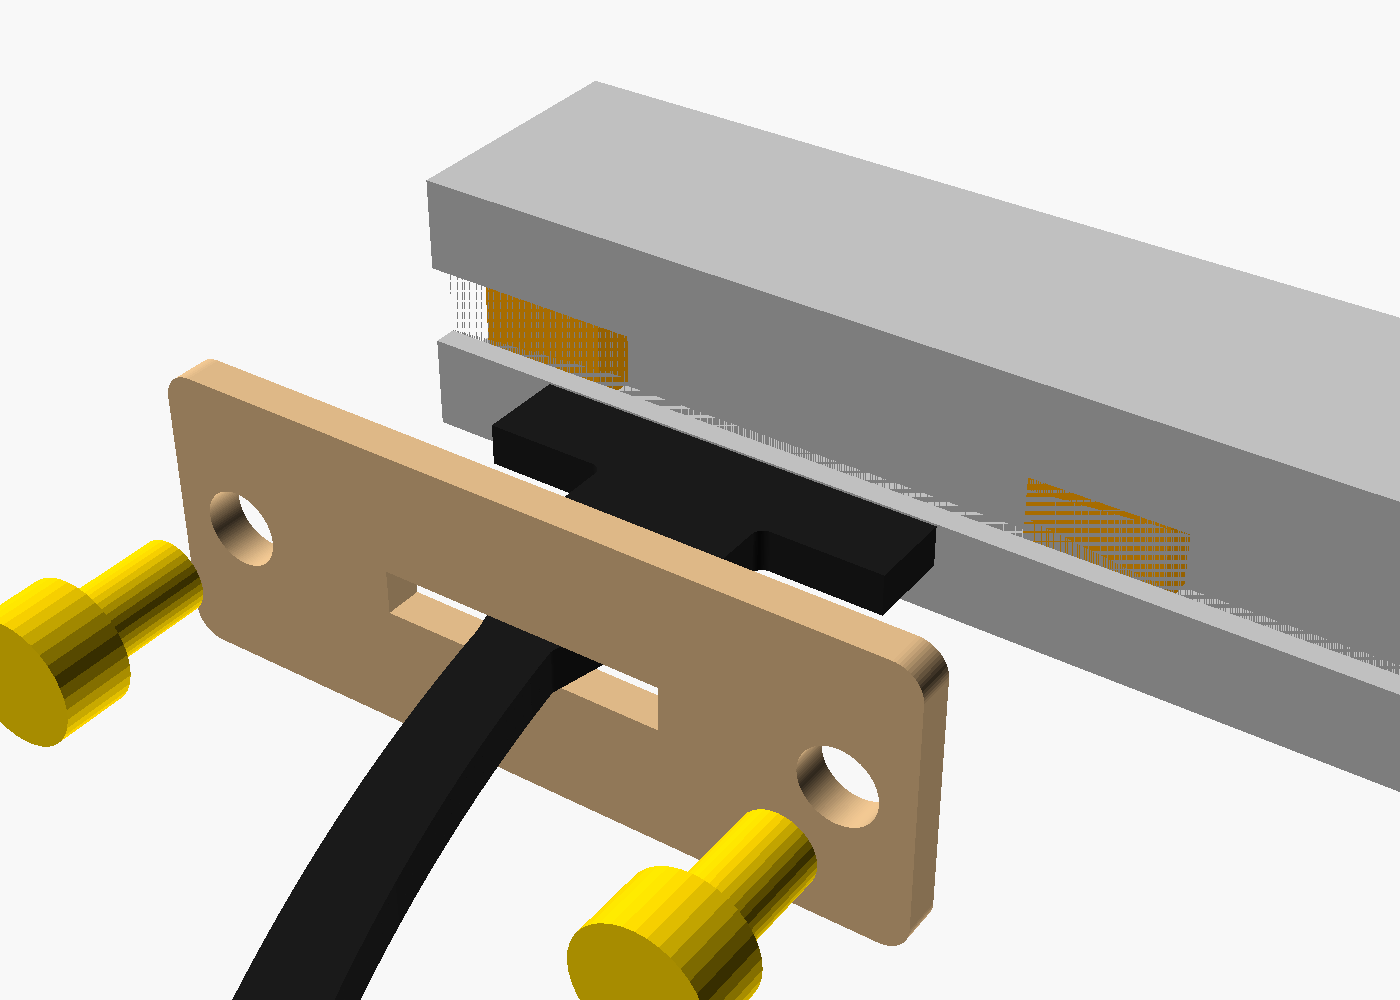
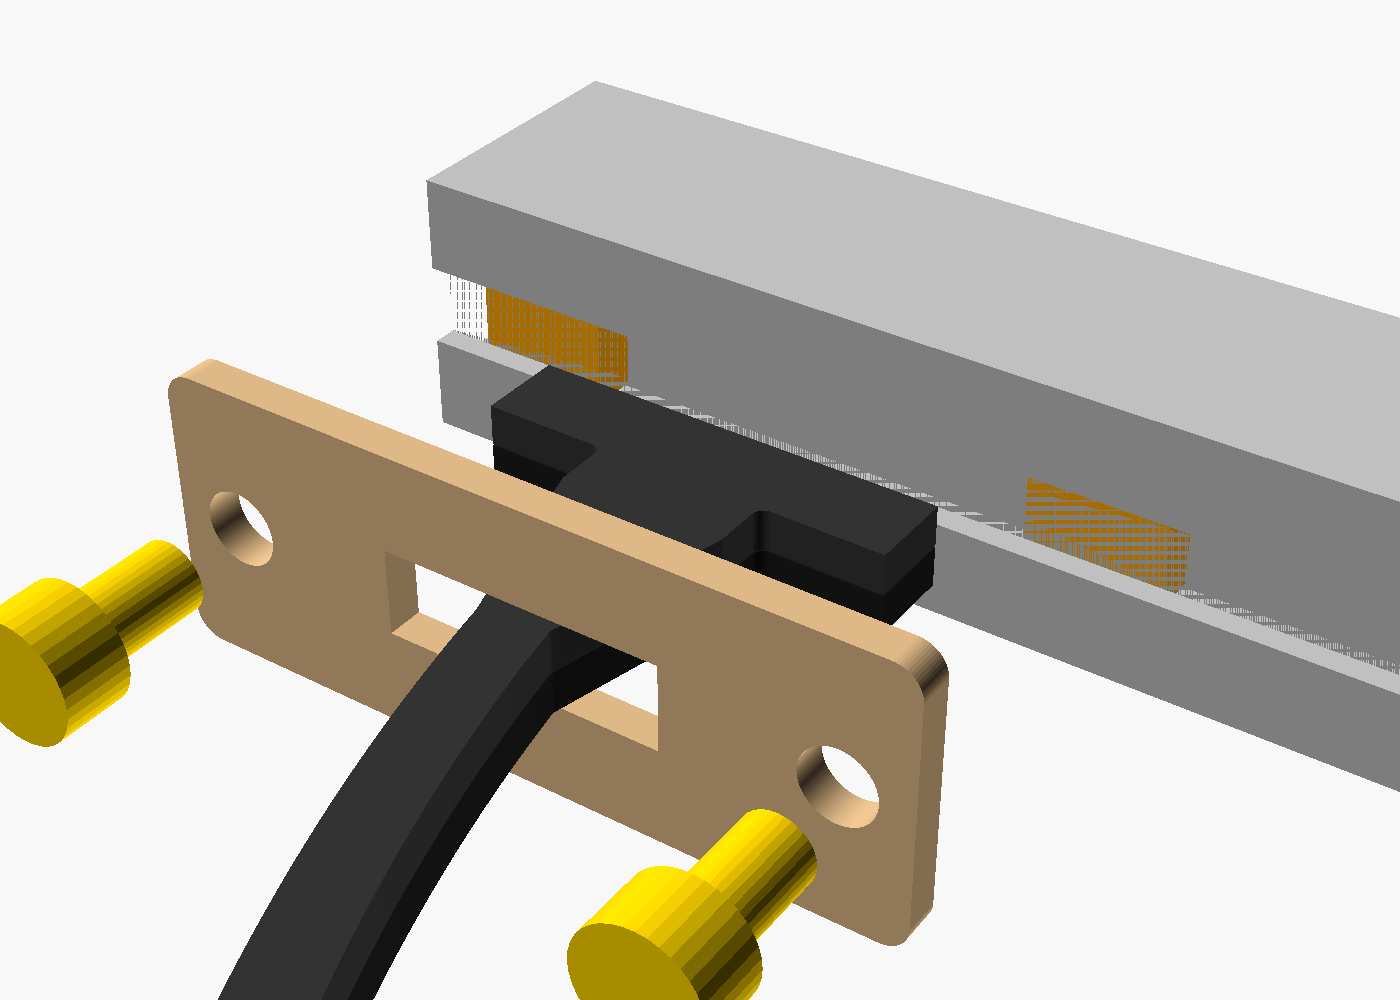
Acrylic feed x pass calibration (small ring test); escapement T pallet doubled to 6 mm (2 layers + M3 pin), clamp slot 6.2
Claude-Session: https://claude.ai/code/session_01LQy87QnU21cWEAk5CN6jGY

diff --git a/marbles/acrylic_cal.py b/marbles/acrylic_cal.py
@@ -1,0 +1,56 @@
+#!/usr/bin/env python3
+"""Black acrylic feed x pass calibration: cnc_vibes' elliptical ring test (spiral_cal.generate), sized small and slow
+for 3 mm black acrylic on the 10 W diode, shifted so the plate's bottom-left is X0 Y0 (positive coords only), finished
+by quickcut (frame pass, park, validation).
+
+5 rings, inner slow -> outer fast (feed = perimeter / loop time), each split into 4 sectors cut 1..4 times. Read which
+(feed x passes) sectors dropped out cleanly; labels are etched. Range chosen from published starting points for 10 W
+diodes on 3 mm black acrylic: 100 % power, roughly 150-250 mm/min, 2-4 passes.
+
+    python3 marbles/acrylic_cal.py          # -> marbles/gcode/acrylic_cal_<W>x<H>_acrylic3.gcode
+"""
+import re
+import sys
+from pathlib import Path
+
+HERE = Path(__file__).resolve().parent
+VIBES = Path("/home/user/cnc_vibes") if Path("/home/user/cnc_vibes").exists() else HERE.parents[1] / "cnc_vibes"
+sys.path.insert(0, str(VIBES / "cnc_calibrate"))
+sys.path.insert(0, str(VIBES / "quickcut"))
+import spiral_cal  # noqa: E402
+import gcode as qc  # noqa: E402
+
+RINGS, MIN_R, MAX_R, LOOP_S, PASSES, ASPECT = 5, 4.0, 16.0, 26.0, [1, 2, 3, 4], 1.35
+MARGIN = 2.0
+
+
+def main():
+    lines, b, feeds, T, meta = spiral_cal.generate(RINGS, MIN_R, MAX_R, LOOP_S, 100.0, passes=PASSES, aspect=ASPECT,
+                                                   engrave_power=spiral_cal.ENGRAVE_POWER_PCT,
+                                                   engrave_feed=spiral_cal.ENGRAVE_FEED)
+    xs, ys = [], []
+    for l in lines:
+        if re.match(r"G[0123]\b", l):
+            for ax, store in (("X", xs), ("Y", ys)):
+                m = re.search(ax + r"(-?[\d.]+)", l)
+                if m:
+                    store.append(float(m.group(1)))
+    dx, dy = MARGIN - min(xs), MARGIN - min(ys)
+
+    def shift(l):
+        if not re.match(r"G[0123]\b", l):
+            return l
+        l = re.sub(r"X(-?[\d.]+)", lambda m: f"X{float(m.group(1)) + dx:.3f}", l)
+        return re.sub(r"Y(-?[\d.]+)", lambda m: f"Y{float(m.group(1)) + dy:.3f}", l)
+    out = [shift(l).replace("origin CENTER", "origin = plate bottom-left") for l in lines]
+    w, h = max(xs) - min(xs) + 2 * MARGIN, max(ys) - min(ys) + 2 * MARGIN
+    name = qc.name("acrylic_cal", w, h, "acrylic3")
+    head = [f"; {name} -- marbles/acrylic_cal.py: black acrylic feed x pass test, X0 Y0 = plate bottom-left",
+            f"; feeds mm/min (inner->outer): {feeds}; passes per sector (CCW from the warmup join): {meta['counts']}",
+            "; air assist ON; ventilate (acrylic fumes); stay with the machine (acrylic can flame)"]
+    p = qc.write(HERE / "gcode" / f"{name}.gcode", head + out, validate=False)
+    print(f"{p.name}: {w:.1f} x {h:.1f} mm; feeds {feeds} mm/min; sector pass counts {meta['counts']}")
+
+
+if __name__ == "__main__":
+    main()

diff --git a/marbles/clock/escapement_pin.py b/marbles/clock/escapement_pin.py
@@ -69,7 +69,8 @@ BAR_H = 6.3            # the T's bar: just over the slot depth, so the clamp bea
 BAR_L = 30.0           # the bar's length along the arm
 STEM_W = 12.0          # the stem's width where it leaves the slot (through the clamp)
 CLAMP_T = 2.63         # ply3
-CLAMP_SLOT = 3.1       # for the 3 mm stem
+CLAMP_SLOT = 6.2       # for the 6 mm stem (2 layers of 3 mm acrylic)
+T_LAYERS = 2           # the T is 2 identical layers of 3 mm acrylic (6 thick: fills the 6 mm slot opening), pinned by an M3
 CLAMP_END = 9.0        # clamp beyond each end of the bar: the M5 sits here
 ADJ_TRAVEL = 4.0       # slide the T (with the clamp loosened) this far each way along the arm to set the lock depth
 HUB_CLR = 4.0          # the anchor hub plates keep at least this far from the rings over the swing
@@ -157,6 +158,9 @@ def t_pallet(pal, a_beam, a_sh, side):
     stem_root = rect(u, n, u_c - STEM_W / 2, u_c + STEM_W / 2, 10 - SLOT_D + BAR_H - 0.01, 10 + BAR_H - SLOT_D + CLAMP_T + 1.5)
     stem = unary_union([stem_root, start]).convex_hull
     t = unary_union([bar, stem, pal]).buffer(0.8).buffer(-0.8)
+    pin = at(u, n, u_c, 10 - SLOT_D + BAR_H + CLAMP_T + 6.0)          # M3 through both layers, just above the clamp
+    if t.buffer(-(1.6 + 2.5)).contains(Point(pin)):
+        t = t.difference(Point(pin).buffer(1.65, 24))
     clamp_foot = rect(u, n, s0 - CLAMP_END - 3, s1 + CLAMP_END + 3, 10, 10 - SLOT_D + BAR_H + CLAMP_T)
     m5 = [at(u, n, s0 - CLAMP_END + 2, 10), at(u, n, s1 + CLAMP_END - 2, 10)]
     return dict(t=t, clamp=clamp_foot, u_c=u_c, r_b=s1 + CLAMP_END + 6, m5=m5)
@@ -390,10 +394,11 @@ def main():
          [f"anchor hub plate: 608 seat, M5 along the 3 beams (arms {ie['a']:.1f} / {ix['a']:.1f} deg, tail {TAIL_A:g}); cut 2, one each side"], a.out, 2)
     for nm, ub in (("entry", eb), ("exit", xb)):
         emit(f"esc_pin_pallet_{nm}", ub["t"], a.pallet_material,
-             [f"{nm} pallet: upside-down T, bar {BAR_L:g} x {BAR_H:g} sits on the floor of the arm's side T-slot, the stem carries the "
-              f"working faces; slide along the slot (+-{ADJ_TRAVEL:g}) to set the lock depth"], a.out, 1)
+             [f"{nm} pallet: upside-down T, cut {T_LAYERS} (2 x 3 mm = 6 thick, pinned with an M3 through the stem); bar {BAR_L:g} x {BAR_H:g} "
+              f"sits on the floor of the arm's side T-slot, the stem carries the working faces; slide +-{ADJ_TRAVEL:g} to set the lock depth"],
+             a.out, T_LAYERS)
     emit("esc_pin_pallet_clamp", clamp_part(), a.wood,
-         [f"pallet clamp (cut 2, one per arm): lies on the arm's face over the T's bar, the stem through the {CLAMP_SLOT:g} slot; "
+         [f"pallet clamp (cut 2, one per arm): lies on the arm's face over the T's bar, the 6 mm stem through the {CLAMP_SLOT:g} slot; "
           f"M5 each end into T-nuts in the same slot"], a.out, 2)
 
 

diff --git a/marbles/clock/escapement_pin_bracket.py b/marbles/clock/escapement_pin_bracket.py
@@ -42,7 +42,7 @@ def main():
          # the arm: 2020 segment, side slot on +y: 6 opening through the lips, wider cavity behind, floor at y = 4
          f"module arm() color(\"silver\") difference() {{ translate([{x0},-10,-10]) cube([{x1 - x0},20,20]);"
          f" translate([{x0 - 1},8.2,-3]) cube([{x1 - x0 + 2},2,6]); translate([{x0 - 1},{floor},-5.5]) cube([{x1 - x0 + 2},{8.2 - floor},11]); }}",
-         f"module tpart() color(\"#1a1a1a\") translate([0,0,-1.5]) linear_extrude(3) {poly(t)}",
+         f"module tpart() {{ color(\"#1a1a1a\") translate([0,0,-3]) linear_extrude(2.95) {poly(t)} color(\"#333\") translate([0,0,0.05]) linear_extrude(2.95) {poly(t)} }}",
          f"module clamp() color(\"burlywood\") translate([{u_c},{floor + E.BAR_H},0]) rotate([-90,0,0]) linear_extrude({E.CLAMP_T}) {poly(E.clamp_part())}",
          "module screws() for (x = [" + ",".join(f"{v:.2f}" for v in m5x) + "]) translate([x,0,0]) {"
          f" color(\"gold\") translate([0,{floor + 1},0]) rotate([-90,0,0]) cylinder(d=5,h={E.BAR_H + E.CLAMP_T + 4});"
